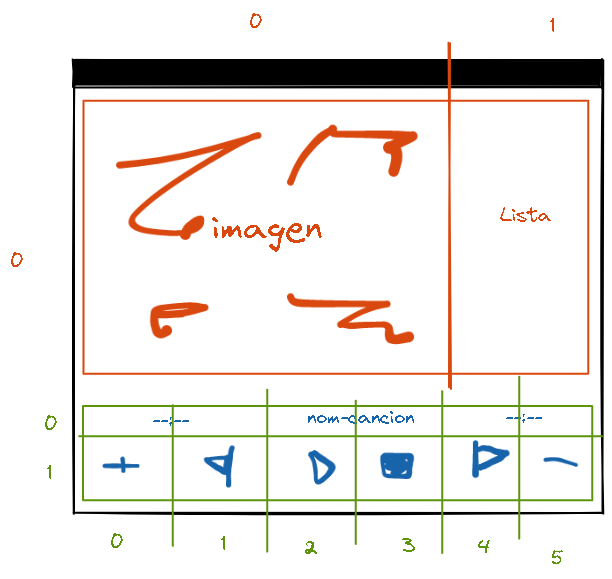
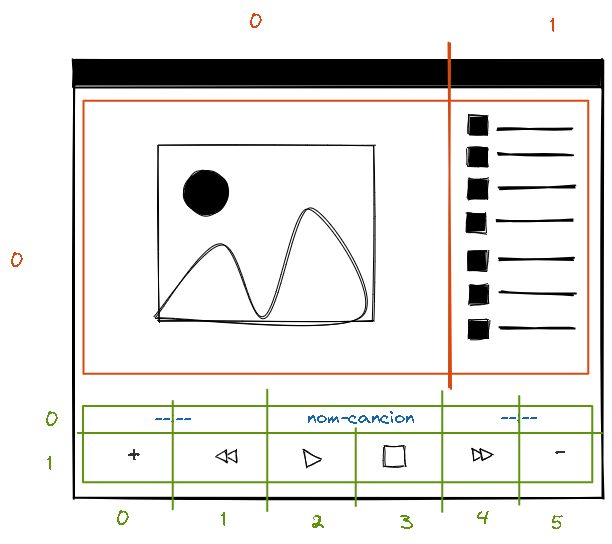
Mejorando los botones

diff --git a/reproductor.py b/reproductor.py
@@ -100,7 +100,6 @@ def mas_volumen():
 #Configuración principal de la ventana de windos
 ventana = tk.Tk()
 ventana.title("Reproductor de musica de TomiCat")
-ventana.attributes("-alpha",0.94)
 ventana.geometry("820x550")
 ventana.iconbitmap('icons/ico.ico')
 ventana.resizable(0,0)
@@ -108,7 +107,7 @@ ventana.resizable(0,0)
 #Cajas
 caja1 = Frame(ventana, bg='#F7F5F2',width=850,height=400)#Aqui se muestra la imagen y la lista
 caja1.grid(row=0,column=0,sticky='nsew')
-caja2= Frame(ventana, bg='#F7F5F2',width=850,height=150)#Aqui los controles
+caja2= Frame(ventana, bg='#F7F5F2',width=820,height=150)#Aqui los controles
 caja2.grid(row=1,column=0,sticky='nsew')
 
 #Pestañas de configuración
@@ -124,13 +123,13 @@ menu.add_cascade(label='Carpeta', menu=Carpeta)
 scrollbar = ttk.Scrollbar(caja1, orient=tk.VERTICAL)
 lista = tk.Listbox(caja1, fg="black", bg='#F7F5F2',width=51, height=22, font=('Roboto',11),borderwidth=0,yscrollcommand=scrollbar.set)
 lista.grid(row=0,column=1)
-img = Image.open('rc.jpg')
+img = Image.open('./icons/rc.jpg')
 img= ImageTk.PhotoImage(img)
 label_img = tk.Label(caja1, image=img,height=400, width=400)
 label_img.grid(row=0,column=0)
 
 #Estilos que hacen la diferencia y/o volumen proximamente xd
-espacio = tk.Label(caja2, text='',bg='#F7F5F2',fg='black', font=('Roboto',14),width=52)
+espacio = tk.Label(caja2, text='',bg='#F7F5F2',fg='black', font=('Roboto',14),width=55)
 espacio.grid(row=0,column=2,columnspan=2,pady=10)
 tiempo_label = tk.Label(caja2, text='',bg='#F7F5F2',fg='black', font=('Roboto',14))
 tiempo_label.grid(row=0,column=4,columnspan=2,pady=10)
@@ -138,23 +137,22 @@ tiempo_label.grid(row=0,column=4,columnspan=2,pady=10)
 prev_img = tk.PhotoImage(file='icons/prev.png')
 next_img = tk.PhotoImage(file='icons/next.png')
 play_img = tk.PhotoImage(file='icons/play.png')
-pause_img = tk.PhotoImage(file='icons/stop.png')
-stop_img = tk.PhotoImage(file='icons/pause.png')
+stop_img = tk.PhotoImage(file='icons/stop.png')
 
 #Creamos los botones con los estilos generales
-previous = tk.Button(caja2,text='Anterior', image= prev_img, bg='#F7F5F2', borderwidth=0, command=anterior)
+previous = tk.Button(caja2,text='Anterior', image= prev_img, bg='#F7F5F2', borderwidth=0, relief="flat", command=anterior, cursor="hand1")
 previous.grid(pady=10, row=1,column=1)
-stop = tk.Button(caja2, text='Detener', image=stop_img, bg='#F7F5F2', borderwidth=0, command=detener)
+stop = tk.Button(caja2, text='Detener', image=stop_img, bg='#F7F5F2', borderwidth=0, relief="flat", command=detener, cursor="hand1")
 stop.grid(pady=10, row=1,column=3)
-play = tk.Button(caja2, text='Reproducir', image=play_img, bg='#F7F5F2', borderwidth=0, command=reproducir)
+play = tk.Button(caja2, text='Reproducir', image=play_img, bg='#F7F5F2', borderwidth=0, relief="flat", command=reproducir, cursor="hand1")
 play.grid(pady=10, row=1,column=2)
-nextB = tk.Button(caja2, text='Siguiente', image=next_img, bg='#F7F5F2', borderwidth=0, command=siguiente)
+nextB = tk.Button(caja2, text='Siguiente', image=next_img, bg='#F7F5F2', borderwidth=0, relief="flat", command=siguiente, cursor="hand1")
 nextB.grid(pady=10, row=1,column=4)
 volumen_label = tk.Label(caja2,font=('Roboto',12),bg='#F7F5F2')
 volumen_label.grid(row=0,column=0,columnspan=2)
-volumen_buttom_mas = tk.Button(caja2, text='+',font=('Roboto',12),width=2,command=mas_volumen,bg='#EEEEEE')
+volumen_buttom_mas = tk.Button(caja2, text='+',font=('Roboto',16),width=2,command=mas_volumen,bg='#F7F5F2',relief="flat", cursor="hand1")
 volumen_buttom_mas.grid(row=1,column=0,pady=15,padx=15)
-volumen_buttom_menos = tk.Button(caja2, text='-',font=('Retro Gaming',12),width=2,command=menos_volumen,bg='#EEEEEE')
+volumen_buttom_menos = tk.Button(caja2, text='-',font=('Retro Gaming',16),width=2,command=menos_volumen,bg='#F7F5F2',relief="flat", cursor="hand1")
 volumen_buttom_menos.grid(row=1,column=5,pady=15,padx=15)
 
 #Ingresamos todos los archivos .mp3 de la carpeta que declaramos
